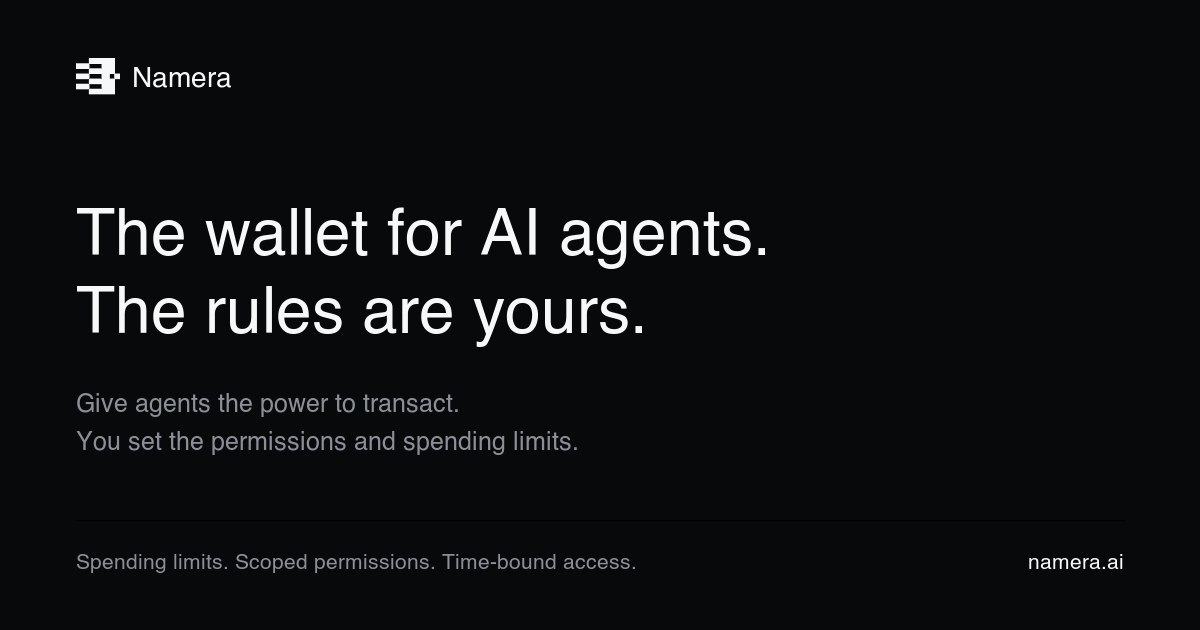
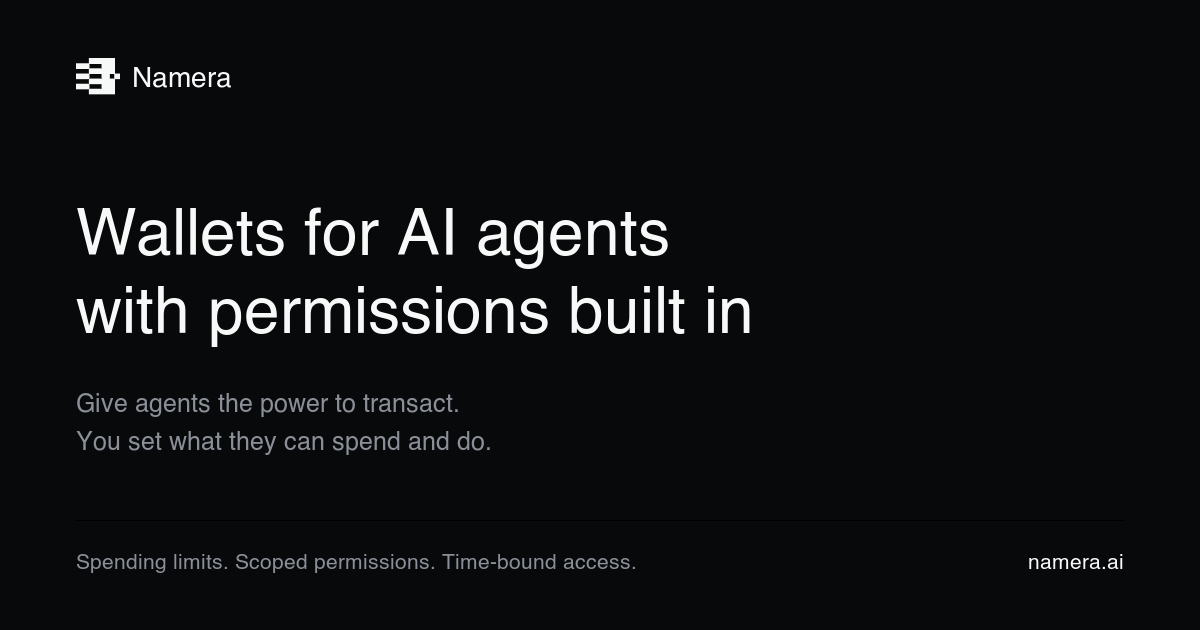
feat(web): refine hero copy and signup layout

Changed region(s): [[0.0617, 0.4524, 0.6475, 0.5429], [0.0617, 0.3317, 0.6475, 0.4222], [0.1233, 0.6937, 0.4933, 0.7238]]

diff --git a/apps/web/src/components/marketing/hero-cta.tsx b/apps/web/src/components/marketing/hero-cta.tsx
@@ -47,10 +47,10 @@ export const HeroCta = () => {
         >
           <div
             className={cn(
-              "edge-top flex items-center gap-2 rounded-[11px] border-1 border-hairline-strong",
-              "bg-surface/80 p-1 backdrop-blur-sm",
+              "edge-top flex items-center gap-1 rounded-[13px] border-1 border-hairline-strong",
+              "bg-surface/80 p-0.5 backdrop-blur-sm",
               "transition-colors duration-150 ease-out-quad",
-              "focus-within:border-accent/50",
+              "has-[:focus-visible]:outline-2 has-[:focus-visible]:outline-offset-2 has-[:focus-visible]:outline-focus/60",
             )}
           >
             <Controller
@@ -77,7 +77,7 @@ export const HeroCta = () => {
                       field.onChange(event);
                       setError(undefined);
                     }}
-                    className="tap-target h-8 w-full min-w-0 rounded-[6px] bg-transparent px-2 text-sm text-foreground shadow-none"
+                    className="tap-target h-8 w-full min-w-0 rounded-[10px] border-0 bg-transparent px-2 text-sm text-foreground shadow-none ring-0 outline-none hover:bg-transparent focus:bg-transparent focus:shadow-none focus:ring-0 focus:outline-none"
                   />
                 </Field>
               )}
@@ -89,7 +89,7 @@ export const HeroCta = () => {
               isDisabled={join.isPending}
               className={
                 cn(
-                  "tap-target group/join inline-flex h-8 shrink-0 items-center gap-1.5 rounded-[6px] px-3",
+                  "tap-target group/join inline-flex h-8 shrink-0 items-center gap-1.5 rounded-[10px] px-3",
                   "bg-button-light text-[0.8125rem] font-medium text-button-light-foreground",
                   "transition-[background-color,transform] duration-150 ease-out-quad",
                   "hover:bg-white active:scale-[0.98]",
@@ -113,7 +113,7 @@ export const HeroCta = () => {
               form.formState.errors.email ? [{ message: "Enter a valid email address." }] : []
             }
           />
-          <output className="mt-2 block min-h-5 text-[0.8125rem] text-ink-subtle">{error}</output>
+          <output className="block text-[0.8125rem] text-ink-subtle empty:hidden">{error}</output>
         </form>
       )}
     </div>

diff --git a/apps/web/src/components/marketing/hero.tsx b/apps/web/src/components/marketing/hero.tsx
@@ -76,9 +76,9 @@ export const Hero = () => {
             data-hero-copy
             className="type-display-xl max-w-[24ch] text-[clamp(1.875rem,1.125rem+2.8vw,3.25rem)] text-balance text-foreground"
           >
-            The wallet for AI agents.
+            Wallets for AI agents
             <br />
-            The rules are yours.
+            with permissions built in
           </h1>
           <p
             data-hero-copy
@@ -86,7 +86,7 @@ export const Hero = () => {
           >
             {SITE.heroDescription}
           </p>
-          <div data-hero-copy className="mt-3">
+          <div data-hero-copy>
             <HeroCta />
           </div>
         </div>
@@ -99,7 +99,7 @@ export const Hero = () => {
         >
           <div
             aria-hidden
-            className="pointer-events-none absolute inset-y-0 left-1/2 -z-10 w-[calc(100vw-12px)] -translate-x-1/2 overflow-hidden rounded-lg"
+            className="pointer-events-none absolute inset-y-0 left-1/2 -z-10 w-[calc(100vw-32px)] -translate-x-1/2 overflow-hidden rounded-lg"
           >
             <div
               className="absolute inset-x-0 top-0 bottom-[var(--floor)]"

diff --git a/apps/web/src/lib/seo.ts b/apps/web/src/lib/seo.ts
@@ -14,12 +14,11 @@ if (!["http:", "https:"].includes(siteUrl.protocol) || siteUrl.username || siteU
 export const SITE = {
   name: "Namera",
   origin: siteUrl.origin,
-  tagline: "The wallet for AI agents. The rules are yours.",
-  heroDescription:
-    "Give agents the power to transact. You set the permissions and spending limits.",
+  tagline: "Wallets for AI agents with permissions built in",
+  heroDescription: "Give agents the power to transact. You set what they can spend and do.",
   /** Shared search, social and structured-data description. */
   description:
-    "Namera is the wallet for AI agents. You set the permissions, spending limits, and access expiry. Give agents the power to transact on your terms.",
+    "Namera gives AI agents wallets with permissions built in. Set what they can spend and do, with spending limits, scoped permissions, and access expiry.",
   keywords: [
     "agent wallet",
     "AI agent wallets",

diff --git a/apps/web/src/components/marketing/hero-object.tsx b/apps/web/src/components/marketing/hero-object.tsx
@@ -955,7 +955,7 @@ export const HeroObject = () => {
     <div
       className={cn(
         "edge-top relative flex overflow-hidden rounded-lg border-1 border-hairline-strong",
-        "h-auto sm:h-[35rem] md:aspect-video md:h-auto",
+        "h-auto md:min-h-[44rem]",
         "[background:var(--marketing-panel-gradient)]",
       )}
     >
@@ -1096,7 +1096,7 @@ export const HeroObject = () => {
           })}
         </div>
 
-        <div className="relative min-h-0 flex-1 overflow-x-hidden overflow-y-auto px-4 pt-3 pb-5 sm:px-6">
+        <div className="relative flex-1 overflow-x-hidden px-4 pt-3 pb-5 [scrollbar-width:none] sm:px-6 [&::-webkit-scrollbar]:hidden">
           {section === "Session Keys" ? (
             <div className="flex">
               <div className="min-w-0 flex-1">

diff --git a/apps/web/tests/unit/seo.test.ts b/apps/web/tests/unit/seo.test.ts
@@ -22,7 +22,7 @@ describe("page titles", () => {
 
   it("uses permission-focused copy and connected page structured data", () => {
     const head = seo({ description: SITE.description, path: "/" });
-    expect(SITE.tagline).toBe("The wallet for AI agents. The rules are yours.");
+    expect(SITE.tagline).toBe("Wallets for AI agents with permissions built in");
     expect(head.meta).toContainEqual({ name: "description", content: SITE.description });
     expect(head.meta).toContainEqual({ property: "og:description", content: SITE.description });
     expect(head.meta).toContainEqual({ name: "twitter:description", content: SITE.description });
